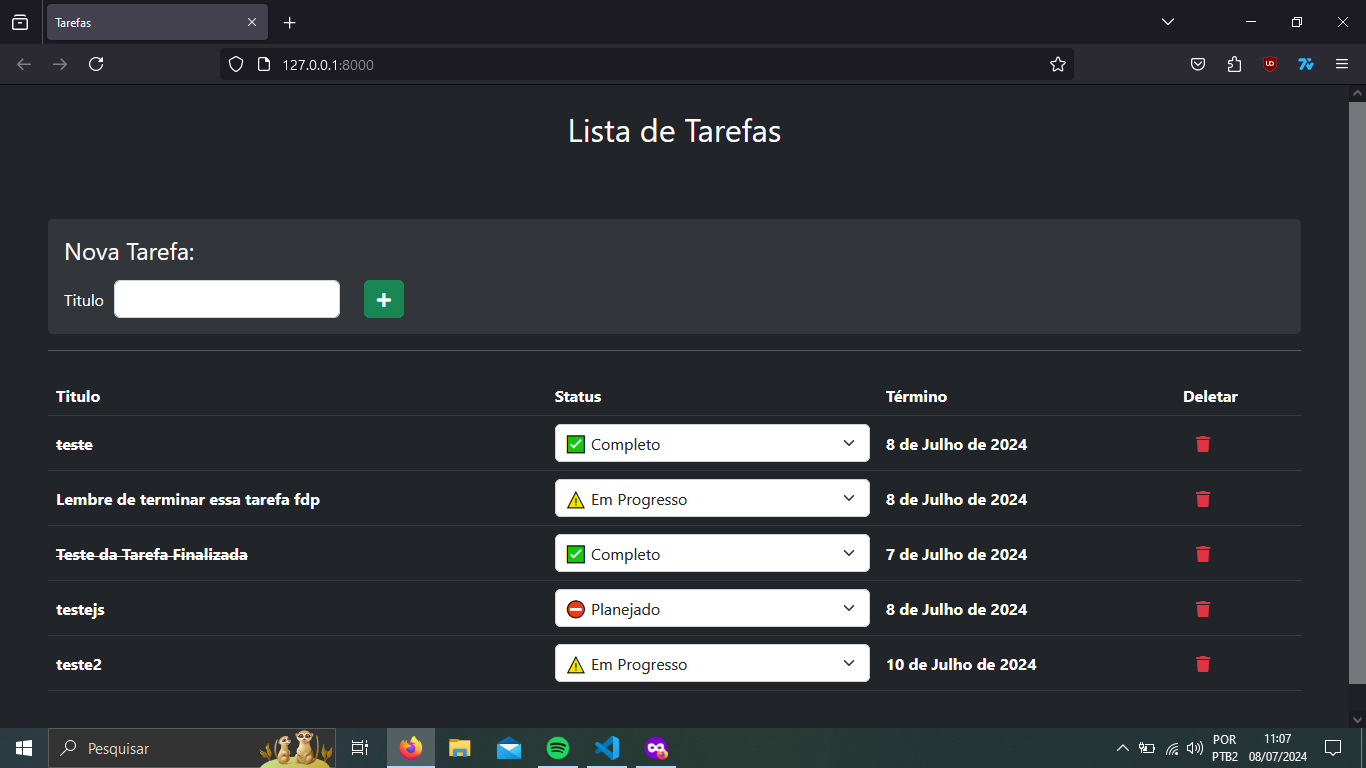
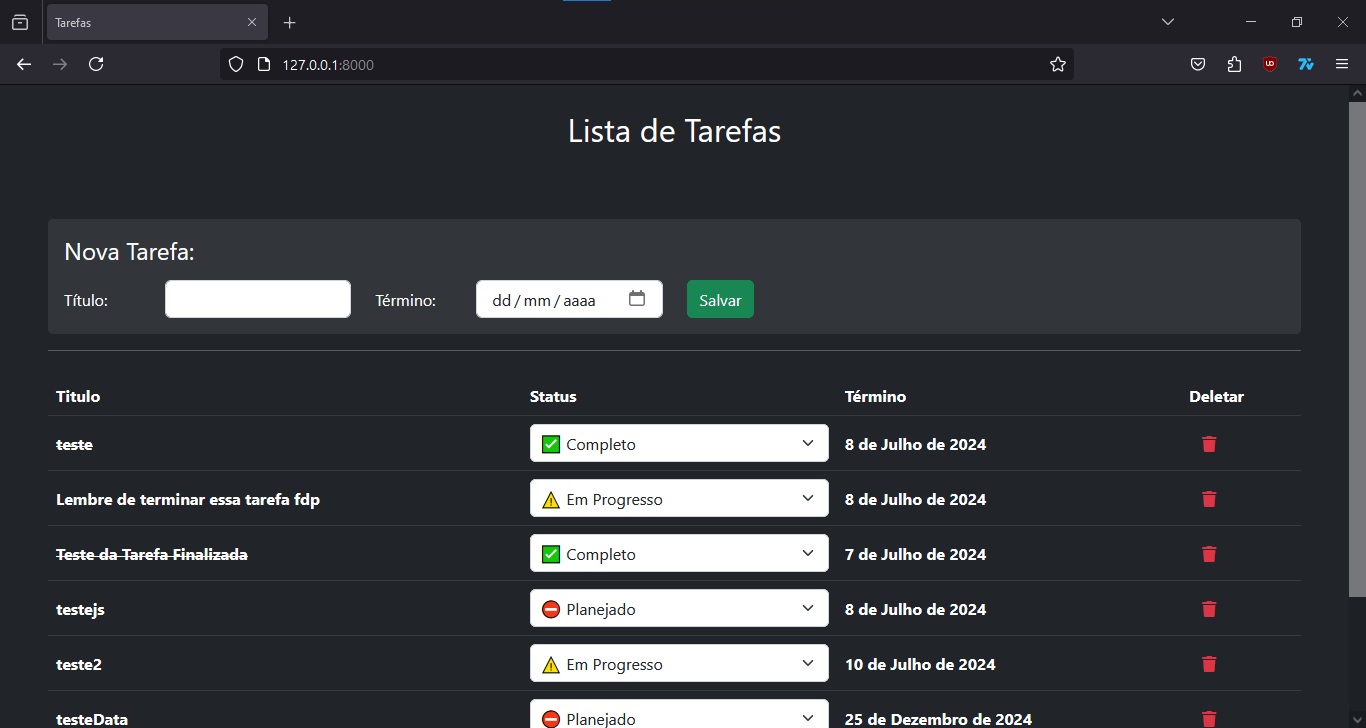
Adição da data no form (#1)

diff --git a/main_app/templates/index.html b/main_app/templates/index.html
@@ -13,22 +13,27 @@
         <!-- Formulário para adicionar nova tarefa -->
         <div class="p-3" id="nova-tarefa">
             <h4 class="mb-3">Nova Tarefa:</h4>
-            <form class="d-flex gap-4 col-md-6" method="POST">
+            <form method="POST" class="row align-items-center">
                 {% csrf_token %}
                 <!-- Loop pelos campos do formulário -->
                 {% for field in form %}
-                    <div class="form-group row">
-                        <!-- Label do campo -->
-                        <label for="{{ field.id_for_label }}" class="col-sm-2 col-form-label">{{ field.label }}</label>
-                        <div class="col-sm-10">
+                    <div class="col-sm-3">
+                        <div class="row gy-2 gx-3">
+                            <!-- Label do campo -->
+                            <label for="{{ field.id_for_label }}" class="col-sm-4 col-form-label">{{ field.label }}</label>
                             <!-- Campo do formulário -->
-                            {{ field }}
+                            <div class="col-sm-8">
+                                {{ field }}
+                            </div>
                         </div>
                     </div>
                 {% endfor %}
                 <!-- Botão para adicionar nova tarefa -->
-                <button type="submit" class="btn btn-success"><i class="fa fa-plus"></i></button>
+                <div class="col-auto">
+                    <button type="submit" class="btn btn-success">Salvar</button>
+                </div>
             </form>
+            
         </div>
 
         <hr>

diff --git a/main_app/forms.py b/main_app/forms.py
@@ -1,13 +1,17 @@
-from django import forms 
+from django import forms
 from .models import Tarefa
 
+class DateInput(forms.DateInput):
+    input_type = "date"
+
+    def __init__(self, **kwargs):
+        kwargs["format"] = "%d-%m-%Y"
+        super().__init__(**kwargs)
+
 class TarefaForm(forms.ModelForm):
+    titulo = forms.CharField(widget=forms.TextInput(attrs={'class': 'form-control'}), label="Título:")
+    data_termino = forms.DateField(widget=DateInput(attrs={'class': 'form-control'}), label="Término:")
+
     class Meta:
         model = Tarefa
-        fields = ('titulo',)
-        exclude = ('status',)
-    
-    def __init__(self, *args, **kwargs):
-        super().__init__(*args, **kwargs)  
-        for field_name, field in self.fields.items():   
-                field.widget.attrs['class'] = 'form-control'
+        fields = ['titulo', 'data_termino']

diff --git a/README.md b/README.md
@@ -9,4 +9,4 @@
 
 - **Resultado:**
 
-![Tela Inicial](image.png)
+![Tela inicial](image.png)
